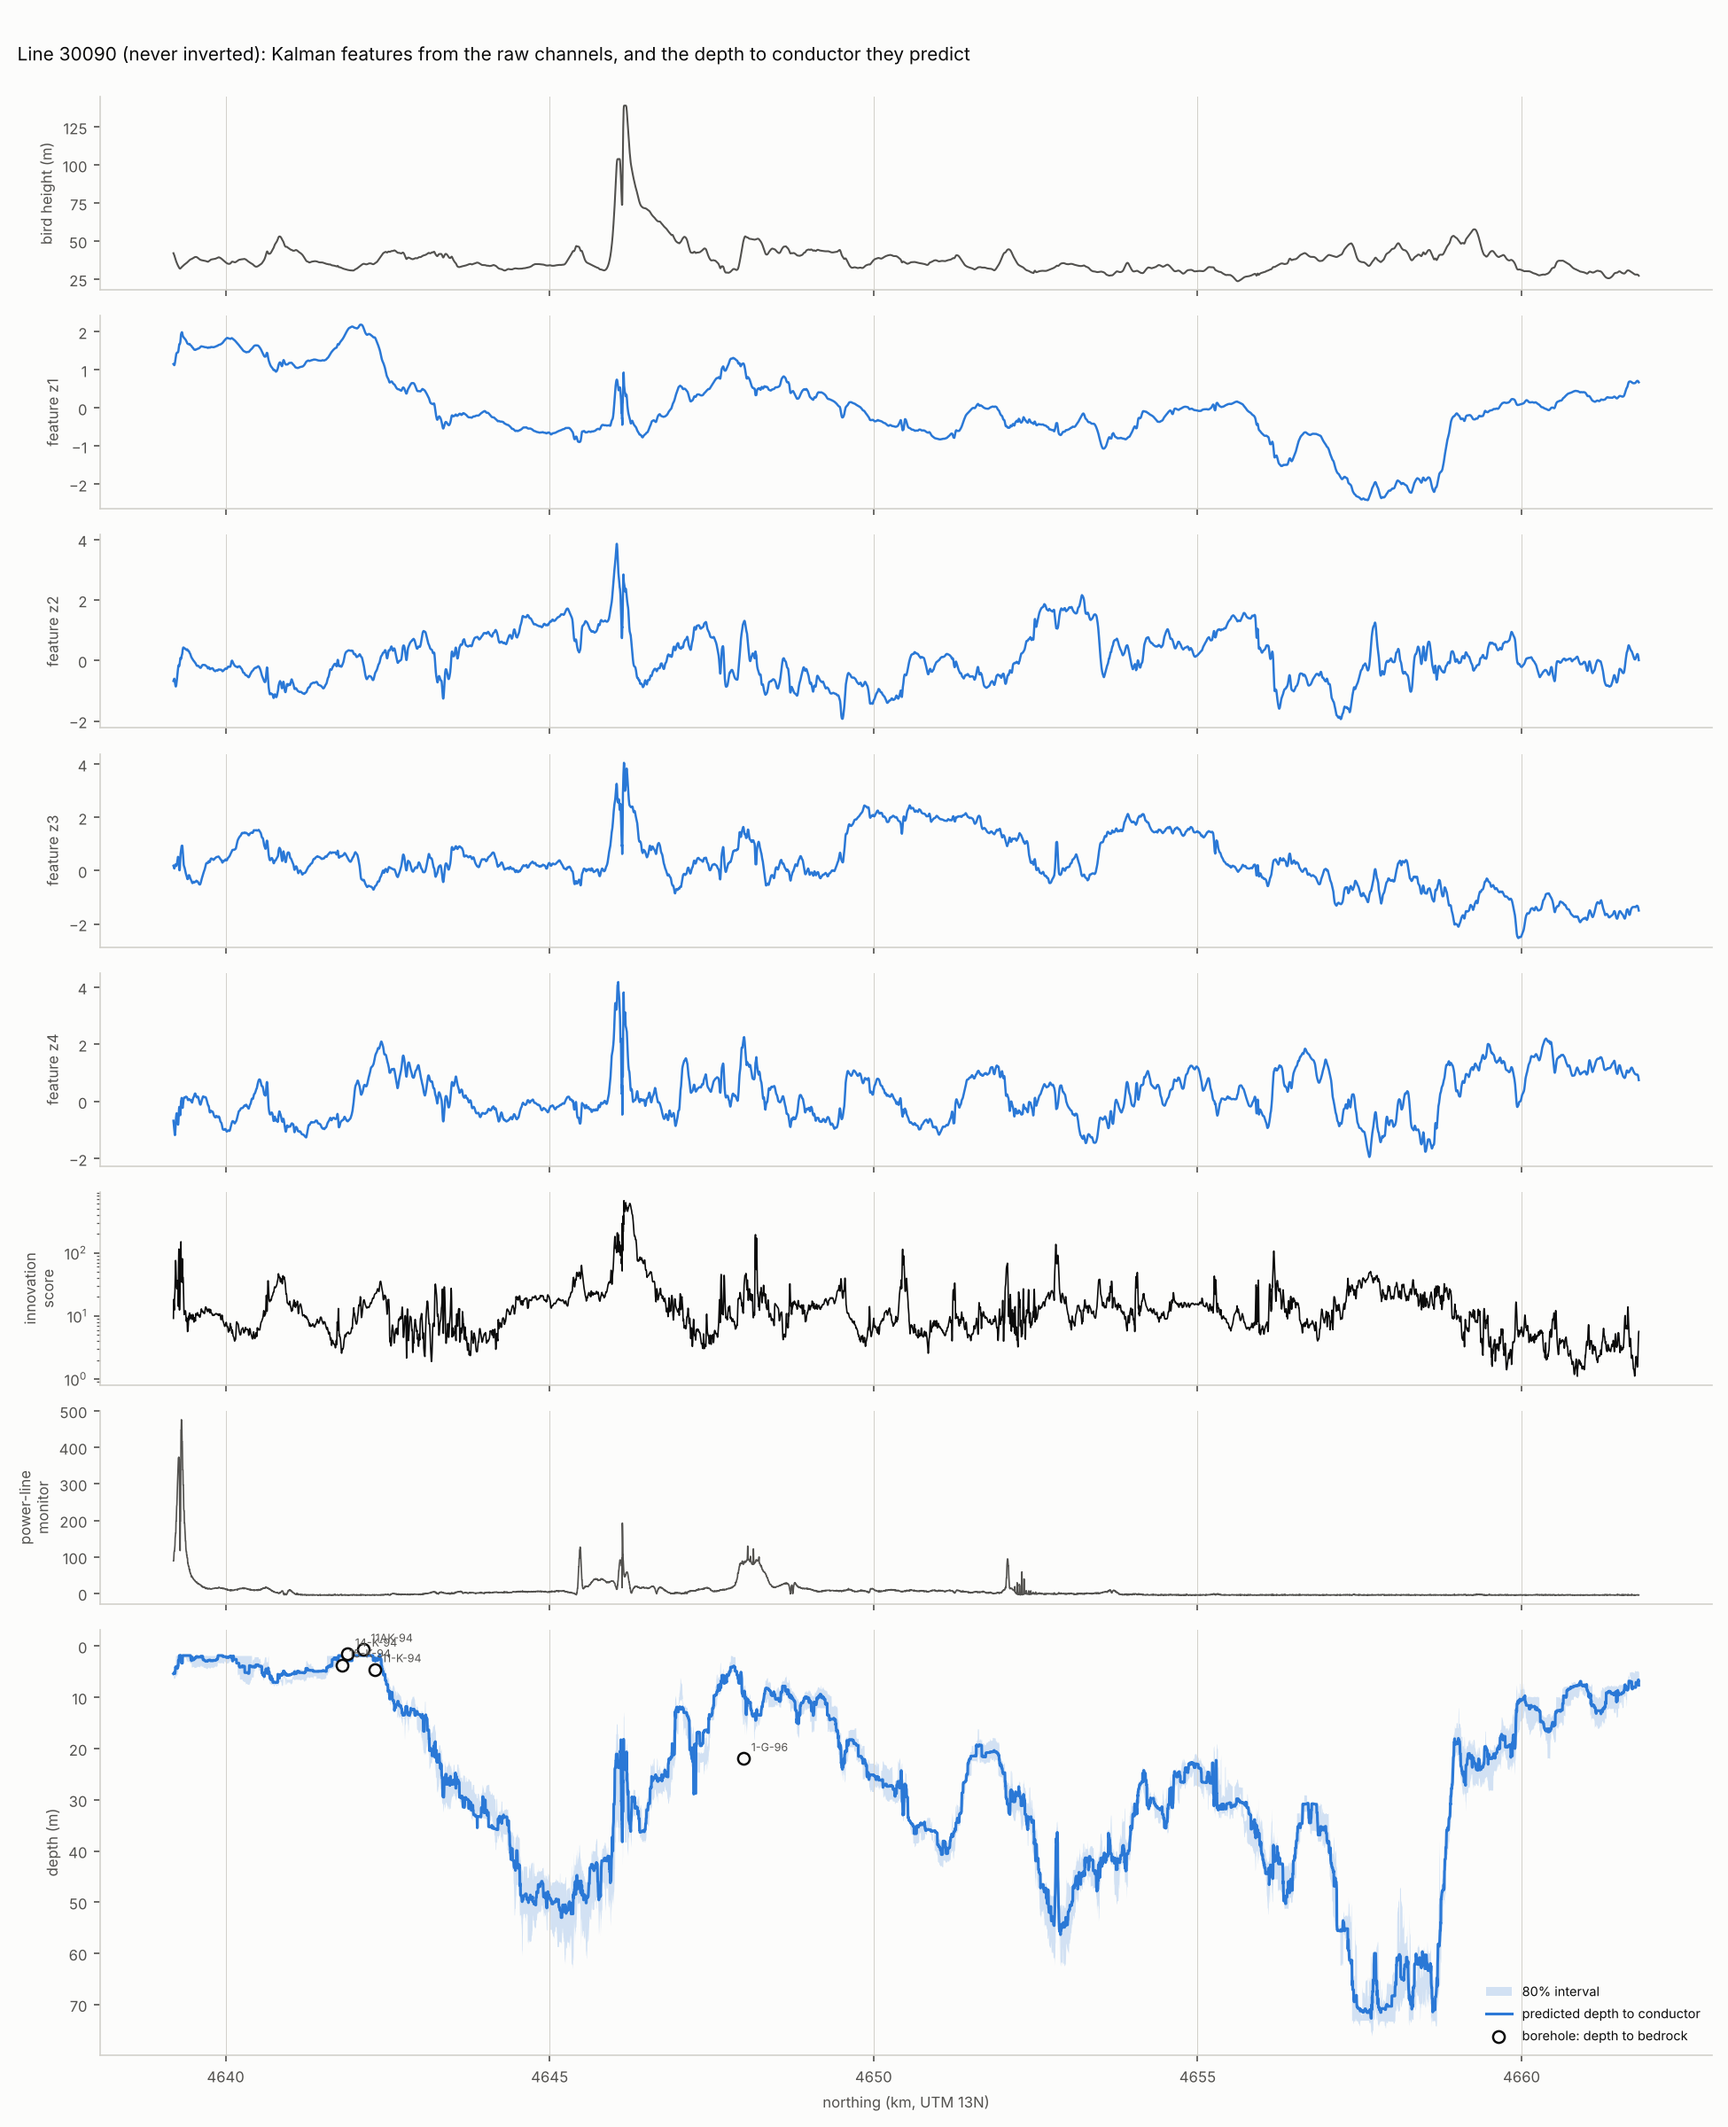
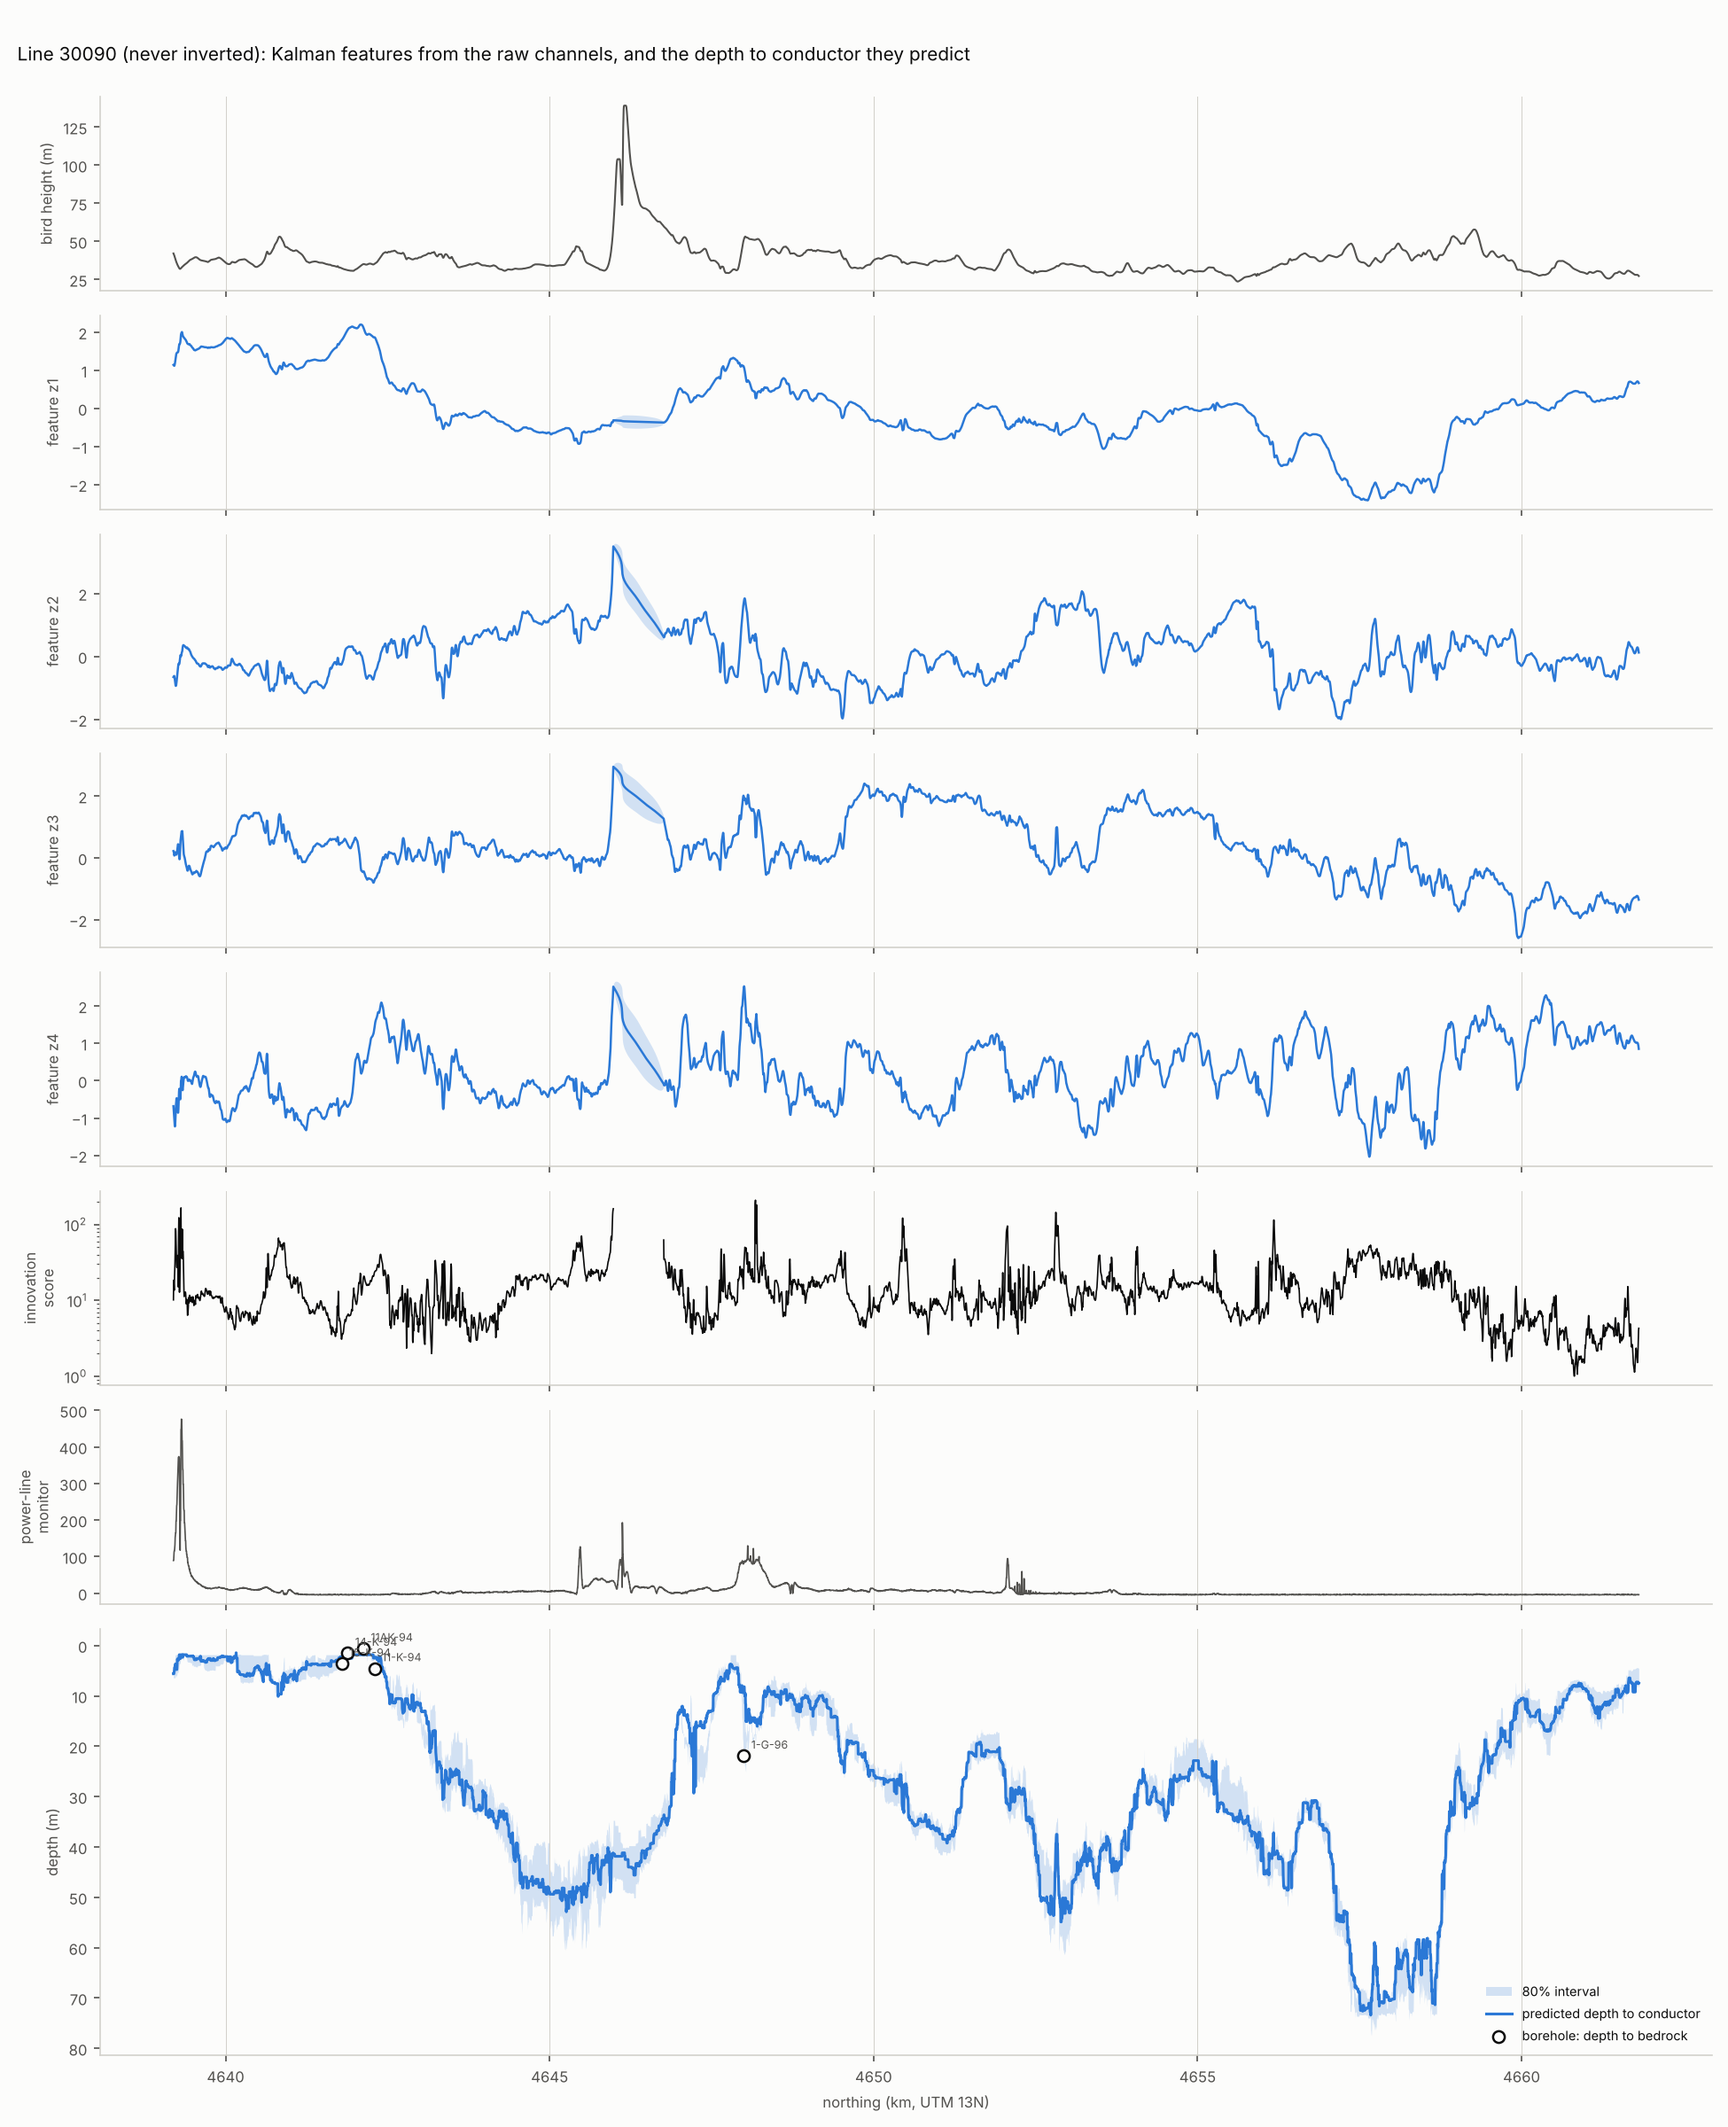
Record Kalman feature results with high-flying soundings masked
Refresh the two Kalman figures from the run that treats 940 soundings
flown above 60 m as missing, and fill in note 05: height correlation
0.87 -> 0.03, innovations 10x more likely on power-line noise, features
slightly behind raw channels at copying the inversion (2.89 vs 2.26 m),
and on the uninverted lines the buried valley appears but 15-40 m too
shallow, with 80% intervals that miss every valley hole.

Claude-Session: https://claude.ai/code/session_01PfFWKKSMPTrDPvtibsApUB

diff --git a/docs/learn/05-kalman-features.md b/docs/learn/05-kalman-features.md
@@ -70,6 +70,115 @@ rotation: the features are uncorrelated with unit variance, their loading
 columns are orthogonal and ordered by how much of the channels they explain,
 and their signs are fixed. So z1 is the main mode, z2 the next, and so on.
 
+## Gaps: when the bird flies too high
+
+Above about 60 m the bird barely sees the ground; on line 30090 the
+helicopter climbed to 139 m. Those 940 soundings (1.3%) are treated as
+**missing**:
+- the filter skips its update step;
+- the smoother carries the state across the gap, with uncertainty growing
+  toward the middle;
+- EM leaves those rows out when it re-estimates C, D and R.
+
+Missing data is one of the things Kalman models handle naturally. In the
+figure below, the gap at 4,646–4,647 km shows as straight segments inside
+a widening band.
+
 ## Results
 
-*(filled in from `uv run morrill kalman`)*
+From `uv run morrill kalman` (k = 4; EM stopped at its 50-iteration cap,
+when the last step changed the log-likelihood by 4 × 10⁻⁵ in relative
+terms).
+
+**1. Flight height is removed from the features.** Largest |rank
+correlation| with log bird height:
+
+| Raw channels | Kalman, without the height term | Kalman features |
+|---|---|---|
+| 0.87 | 0.72 | **0.03** |
+
+The smoothing alone doesn't do it; the explicit height input does. A little
+height still leaks where the bird climbs steeply but stays under 60 m
+(the edges of the gap above).
+
+**2. Innovations flag noise.** Of the 1% most surprising soundings, 10% are
+among the 1% with the most power-line noise (chance would be 1%). The rest
+are spikes and sharp changes along the line. Before the high-flying stretches
+were masked this was 16%, because some of those stretches were over power
+lines.
+
+**3. The features don't beat raw channels at copying the inversion.**
+Predicting the inversion's depth to conductor, with each of the 6 inverted
+lines held out in turn (39,886 soundings, gradient boosting):
+
+| Inputs | Mean error (m) | Within 5 m | R² |
+|---|---|---|---|
+| Raw channels + bird height | **2.26** | 0.91 | 0.93 |
+| Raw, smoothed over 31 soundings | 2.38 | 0.91 | 0.92 |
+| Kalman, without the height term | 2.74 | 0.87 | 0.91 |
+| Kalman features | 2.89 | 0.85 | 0.92 |
+
+That's no surprise in hindsight. The inversion is itself a sounding-by-sounding
+function of the raw channels and bird height. A flexible model given exactly
+those inputs reproduces it best, and compressing 12 channels into 4 smooth
+features throws away detail it uses.
+
+**4. Out of sample, the buried valley shows up, but too shallow.** The four
+lines L30070–L30100 were never inverted. At the 12 boreholes within 100 m of
+them:
+
+| Hole | Bedrock (m) | Raw: predicted | Kalman: predicted | Kalman 80% interval |
+|---|---|---|---|---|
+| shallow Brule holes (8) | 0.6–16.2 | within ~1–5 m | within ~1–3 m | narrow |
+| 1-G-96 (Chadron) | 21.9 | 10.1 | 8.2 | 10–21 |
+| 2-J-97 (Pierre) | 58.5 | 44.1 | 45.2 | 40–48 |
+| 1-H-97 (Pierre) | 60.3 | 37.1 | 33.3 | 30–37 |
+| 1-J-96 (Pierre) | 59.7 | 37.3 | 20.2 | 14–25 |
+
+Both kinds of input give the deepest predictions on these lines exactly where
+the valley holes are, so the valley is detected. But both are 15–40 m too
+shallow there. The true depth fell inside the Kalman 80% interval at **none
+of the 12 holes**. Those intervals describe how well the inversion was
+copied, not how wrong the inversion (or the copy) might be, so they are
+overconfident.
+
+It isn't simple extrapolation: 10% of the training soundings have a conductor
+at 55 m or deeper. And raw channels fail about as badly as the features. So
+the limit is in the labels or in the physics, not in the features. Two
+explanations remain, and they need physics to tell apart:
+
+- the valley's signal is ambiguous at that depth: under 40–55 m of resistive
+  gravel, a deeper conductor and a weaker one can give similar responses; or
+- the inversion would itself put the conductor shallower there, so a model
+  trained to copy it can't do better.
+
+![Line 30090: bird height, the four features with ±2σ, innovation score,
+power-line monitor, and predicted depth with boreholes](../figures/kalman_line.png)
+
+![Depth to conductor predicted from the Kalman features on all lines](../figures/kalman_conductor_depth.png)
+
+## What the Kalman model is good for here
+
+- **Height-free, along-line-coherent descriptors**, with an uncertainty for
+  every sounding and sensible handling of gaps. Good inputs for clustering
+  (note 03) or for a model of rock class that has no inversion to lean on.
+- **Quality control:** the innovation score is a single "this doesn't fit"
+  number per sounding.
+- **Not** as a replacement for physics where the labels run out.
+
+The natural next step keeps the Kalman idea and adds the physics: an
+**ensemble Kalman inversion**. Instead of learning a statistical state from
+the channels, it updates an ensemble of layered-earth models with a real EM
+forward model, sounding by sounding along the line. Each sounding's result
+becomes the next one's prior. It gives a probabilistic answer, with the depth
+ambiguity visible, at a fraction of MCMC's cost, and it works on the four
+uninverted lines.
+
+## Questions to think about
+
+1. Why does the *no-height* Kalman model still correlate 0.72 with height,
+   when smoothing ought to average the pilot's ups and downs away?
+2. The 80% intervals were too narrow at every valley hole. Which sources of
+   uncertainty did they leave out?
+3. Q (how fast the state may change) was learned, not chosen. What would a
+   much smaller Q do to a sharp edge like the buried valley's wall?
